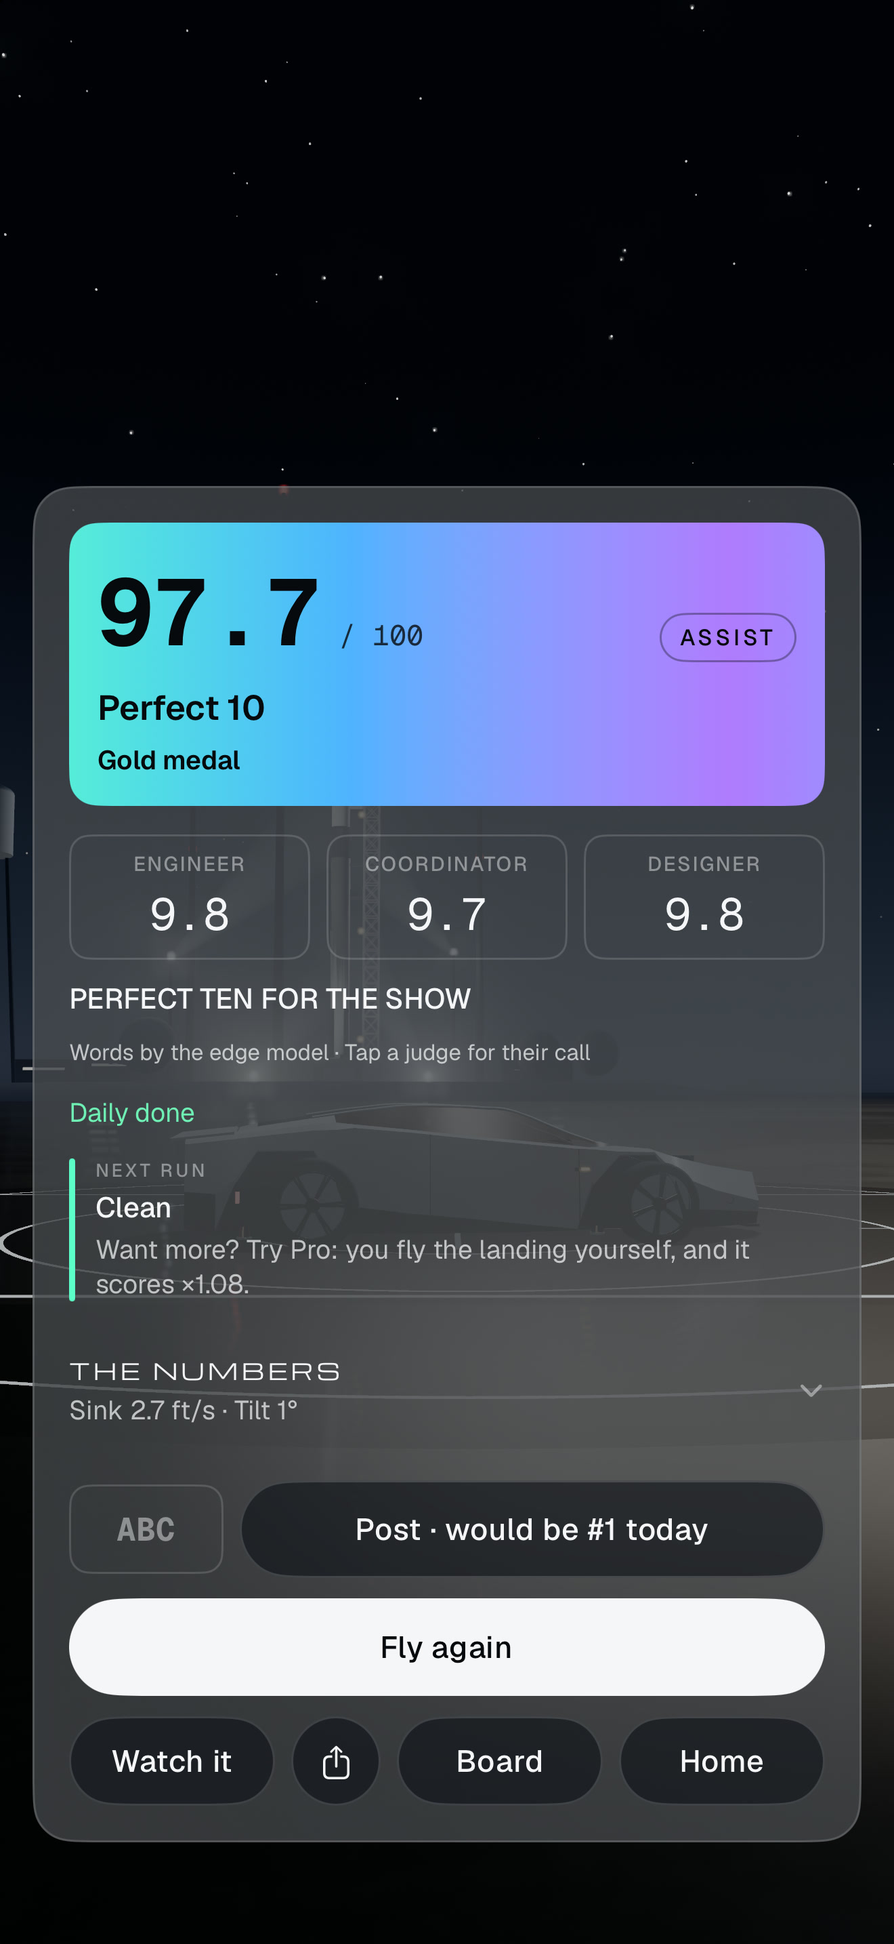
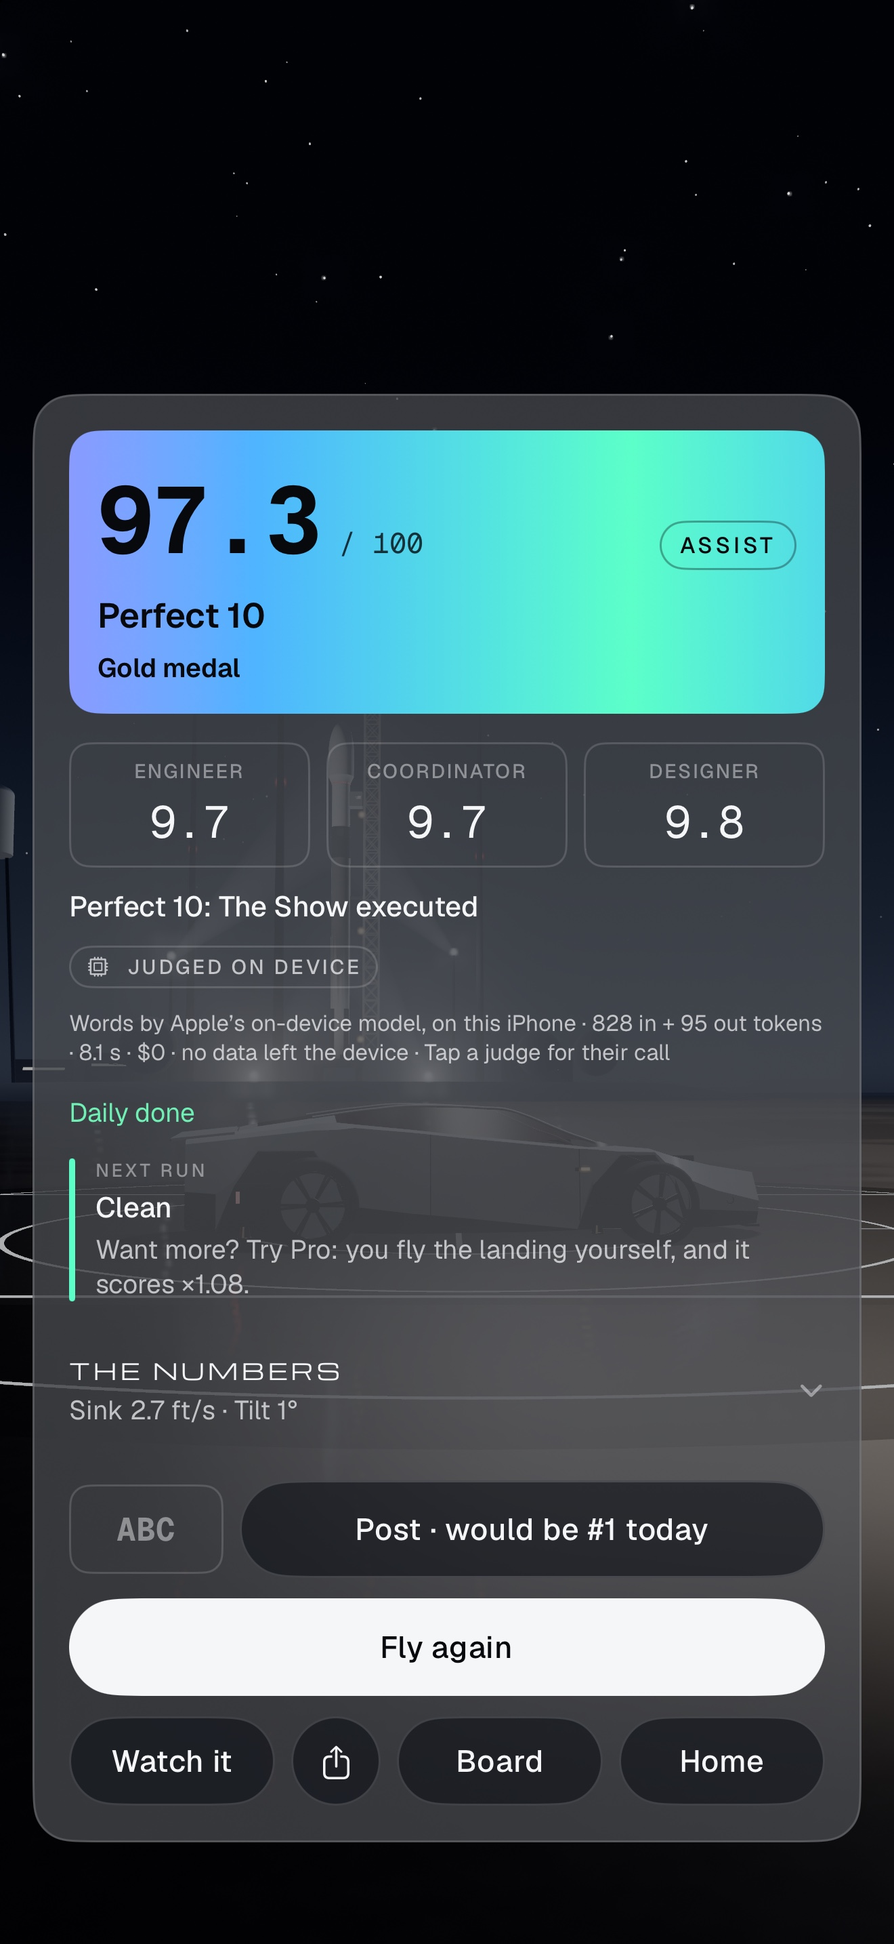
build: iOS 1.1.0 for the App Store: release polish, privacy for on-device judging, iPad shots, review notes
- MARKETING_VERSION 1.1.0.
- Free Drive: the headlamps' cone has a soft edge and a near-field floor (no hard wedge on the verges, no white bank
  at the nose); the world-stats strip (-fd-stats) is Debug-only.
- Advanced in the air: on an upright phone the cue sits under the gas gauge, not over the car; on the open Duo the
  centred HUD moves off the crease (pause left of it, readouts and gas right of it).
- Privacy page and store/privacy-policy.md, word for word: on-device judging sends nothing; otherwise the run goes to
  our server as before. app-privacy.md re-checked for 1.1.0 (label unchanged).
- asc.mjs: the 13" iPad set (APP_IPAD_PRO_3GEN_129, required now the app is universal), `cancel --yes`, and the
  iPhone-only comment gone.
- Store copy: Free Drive and iPad in the description, promo text for a first release, review notes with the board
  correction owed to App Review and what makes the game distinct (4.3, 4.2.6).
- Lobby: new 6.9" captures from the 1.1.0 build (Judged on device, Free Drive, the hang, the row).

Changed region(s): [[0.0311, 0.1862, 0.9629, 0.5586], [0.6523, 0.5275, 0.7455, 0.5586]]

diff --git a/ios/ColdGas/UI/GameUI.swift b/ios/ColdGas/UI/GameUI.swift
@@ -14,6 +14,14 @@ final class LayoutModel: ObservableObject {
     @Published var scene: CGRect = .zero
     @Published var controls: CGRect = .zero
     @Published var safe: EdgeInsets = EdgeInsets()
+    /// The fold's band (the Duo), in the same coordinates; nil on a screen that doesn't fold.
+    @Published var fold: CGRect?
+    /// A vertical fold (the Duo open) across `rect`, as an x range in that rect's own coordinates: what sits centred over
+    /// it moves off the crease.
+    func crease(in rect: CGRect) -> ClosedRange<CGFloat>? {
+        guard spread != .rows, let f = fold, f.height > f.width, f.minX > rect.minX, f.maxX < rect.maxX else { return nil }
+        return (f.minX - rect.minX)...(f.maxX - rect.minX)
+    }
 }
 
 struct RootUI: View {
@@ -200,13 +208,21 @@ struct RunView: View {
         let d = DeckGeometry.layout(layout.controls.size)
         return d.valves.count == 2 && d.form != .tablet
     }
+    /// Advanced in the air on an upright phone: the valve deck (the whole car) fills the bottom and the camera holds the car
+    /// just above it, so a cue lifted over the deck would sit on the car. It goes under the gas bar instead.
+    private var cueTop: Bool {
+        guard layout.spread != .rows, game.tier == "advanced", game.hud.touchPhase == .air, !game.hud.hardware else { return false }
+        let d = DeckGeometry.layout(layout.controls.size)
+        return d.valves.count == 1 && layout.controls.height > layout.controls.width
+    }
     var body: some View {
         let rows = layout.spread == .rows
         let sceneSafe = CGRect(x: layout.scene.minX + layout.safe.leading, y: layout.scene.minY + layout.safe.top,
                                width: layout.scene.width - layout.safe.leading - (rows ? 0 : layout.safe.trailing),
                                height: layout.scene.height - layout.safe.top - (rows ? 0 : layout.safe.bottom))
         ZStack(alignment: .topLeading) {
-            HUDView(compact: !rows && layout.controls.height < 520, cueLift: rows ? 0 : cueLift, centred: hudCentred)
+            HUDView(compact: !rows && layout.controls.height < 520, cueLift: rows ? 0 : cueLift, centred: hudCentred,
+                    crease: layout.crease(in: sceneSafe), cueTop: cueTop)
                 .frame(width: sceneSafe.width, height: sceneSafe.height).offset(x: sceneSafe.minX, y: sceneSafe.minY)
             ControllerView(panel: rows, layoutKey: "\(layout.spread.rawValue) \(Int(layout.controls.width))x\(Int(layout.controls.height))")
                 .frame(width: layout.controls.width, height: layout.controls.height).offset(x: layout.controls.minX, y: layout.controls.minY)
@@ -225,21 +241,28 @@ struct HUDView: View {
     var compact: Bool
     var cueLift: CGFloat = 0   // above the pads when they're over the scene
     var centred = false        // the pause and the readouts in the top middle (Advanced's split valve deck has the corners)
+    var crease: ClosedRange<CGFloat>? = nil   // a vertical fold across the HUD (x in its frame): nothing centred sits on it
+    var cueTop = false         // the cue under the gas bar, not above the controls
     var body: some View {
         let h = game.hud
         VStack(spacing: 0) {
+            if centred, let c = crease {
+                // The Duo open: the pause just left of the crease, the readouts and the gas just right of it.
+                HStack(alignment: .top, spacing: 0) {
+                    pause.frame(width: max(40, c.lowerBound - 12 - 10), alignment: .trailing)
+                    Spacer().frame(width: c.upperBound - c.lowerBound + 20)
+                    VStack(alignment: .leading, spacing: 8) {
+                        readouts(h)
+                        gasBar(h.gas).frame(width: compact ? 120 : 160)
+                    }
+                    Spacer(minLength: 0)
+                }
+            } else {
             HStack(alignment: .top) {
                 if centred { Spacer() }
-                Button { game.paused = true; UISelectionFeedbackGenerator().selectionChanged() } label: {
-                    Image(systemName: "pause.fill").font(.system(size: 13)).foregroundStyle(Theme.ink2).frame(width: 40, height: 40).glass(20)
-                }.buttonStyle(.plain).accessibilityLabel("Pause")
+                pause
                 if centred { Spacer().frame(width: 10) } else { Spacer() }
-                HStack(spacing: 16) {
-                    readout("SPEED", Fmt.speed(h.speed), Fmt.speedUnit)
-                    readout("ALT", Fmt.length(h.alt), Fmt.lengthUnit)
-                    if h.phase == 2 { readout("SINK", Fmt.rate(h.sink), Fmt.rateUnit, color: [Theme.ink, Theme.amber, Theme.hot][h.sinkBand]) }
-                }
-                .padding(.horizontal, 14).padding(.vertical, 8).glass(12)
+                readouts(h)
                 if centred { Spacer() }
             }
             HStack {
@@ -247,17 +270,38 @@ struct HUDView: View {
                 gasBar(h.gas).frame(width: compact ? 120 : 160)
                 if centred { Spacer() }
             }.padding(.top, 8)
-            Spacer()
-            if !h.cue.isEmpty {
-                Text(h.cue).font(Theme.text(compact ? 13 : 15, .medium)).foregroundStyle(Theme.ink)
-                    .padding(.horizontal, 14).padding(.vertical, 8).glass(18)
-                    .transition(.opacity).id(h.cue)
-                    .accessibilityAddTraits(.updatesFrequently)
-                    .padding(.bottom, 8 + cueLift)
+            }
+            if cueTop {
+                cue(h.cue).padding(.top, 10)
+                Spacer()
+            } else {
+                Spacer()
+                cue(h.cue).padding(.bottom, 8 + cueLift)
             }
         }
         .padding(12)
         .animation(.easeOut(duration: 0.25), value: h.cue)
+    }
+    private var pause: some View {
+        Button { game.paused = true; UISelectionFeedbackGenerator().selectionChanged() } label: {
+            Image(systemName: "pause.fill").font(.system(size: 13)).foregroundStyle(Theme.ink2).frame(width: 40, height: 40).glass(20)
+        }.buttonStyle(.plain).accessibilityLabel("Pause")
+    }
+    private func readouts(_ h: HudState) -> some View {
+        HStack(spacing: 16) {
+            readout("SPEED", Fmt.speed(h.speed), Fmt.speedUnit)
+            readout("ALT", Fmt.length(h.alt), Fmt.lengthUnit)
+            if h.phase == 2 { readout("SINK", Fmt.rate(h.sink), Fmt.rateUnit, color: [Theme.ink, Theme.amber, Theme.hot][h.sinkBand]) }
+        }
+        .padding(.horizontal, 14).padding(.vertical, 8).glass(12)
+    }
+    @ViewBuilder private func cue(_ s: String) -> some View {
+        if !s.isEmpty {
+            Text(s).font(Theme.text(compact ? 13 : 15, .medium)).foregroundStyle(Theme.ink)
+                .padding(.horizontal, 14).padding(.vertical, 8).glass(18)
+                .transition(.opacity).id(s)
+                .accessibilityAddTraits(.updatesFrequently)
+        }
     }
     private func readout(_ label: String, _ v: String, _ unit: String, color: Color = Theme.ink) -> some View {
         VStack(alignment: .trailing, spacing: 2) {

diff --git a/public/privacy/index.html b/public/privacy/index.html
@@ -31,10 +31,13 @@
 
   <h2>What we receive, and why</h2>
   <ul>
-    <li><strong>Your run, when you ask for the judges or post to the board.</strong> The run is the inputs you flew and the flight's numbers (speed, height, rotation, touchdown and so on), with the course and the flight tier. We use it to score the jump and to write the judges' commentary.</li>
+    <li><strong>Your run, when you post to the board, and when our server writes the judges' commentary.</strong> The run is the inputs you flew and the flight's numbers (speed, height, rotation, touchdown and so on), with the course and the flight tier. We use it to score the jump and to write the judges' commentary. On an iPhone or iPad where the judges write on the device (below), nothing is sent for the commentary.</li>
     <li><strong>Three initials, when you post to the board.</strong> Three letters, A to Z. They are shown publicly next to the score, with the day it was flown. The board keeps them.</li>
     <li><strong>A health report, from the web game.</strong> Counts of errors (with a short message that has anything that looks like a key or a token removed), how smoothly frames were drawn, which features were used (for example "a run was flown", "the board was opened"), the build, and a rough device class such as "phone, high-end". It carries no identifier, so it can't be tied to you or to your device. We keep daily totals for 30 days and error examples for 14.</li>
   </ul>
+
+  <h2>Judges on your iPhone or iPad</h2>
+  <p>Where Apple Intelligence is available and turned on (iOS 26 or later), the app's judges write their commentary on the device itself, with Apple's on-device model. The model sees only the run's numbers, and nothing is sent to us or to anyone else for it. Where Apple Intelligence isn't available, where you turn this off in Settings, or if the on-device model can't answer, the run's numbers go to our server for the commentary, as described above. The score itself never comes from a model.</p>
 
   <h2>What we don't receive</h2>
   <p>Your name, email, contacts, location, photos, an advertising identifier, or any id for you or your device. Your IP address is used only to stop abuse: it is turned into a hash that changes every day, counted for rate limits, and never stored as an address.</p>
@@ -57,7 +60,7 @@
   <h2>Changes</h2>
   <p>If what we receive ever changes, this page changes first.</p>
 
-  <p class="small">Last updated 5 November 2026.</p>
+  <p class="small">Last updated 12 November 2026.</p>
 </main>
 </body>
 </html>

diff --git a/ios/ColdGas/App/RootViewController.swift b/ios/ColdGas/App/RootViewController.swift
@@ -100,6 +100,7 @@ final class RootViewController: UIViewController {
             layoutModel.spread = l.spread
             layoutModel.scene = l.scene.cg
             layoutModel.controls = l.controls.cg
+            layoutModel.fold = l.fold?.cg
             layoutModel.safe = EdgeInsets(top: safe.top, leading: safe.left, bottom: safe.bottom, trailing: safe.right)
             // The flight deck's shape (0210): set before the camera's framing reads it.
             DeckGeometry.spread = l.spread

diff --git a/ios/ColdGas/World/DriveView.swift b/ios/ColdGas/World/DriveView.swift
@@ -7,7 +7,12 @@ import ColdGasClient
 struct DriveView: View {
     @ObservedObject var game = Game.shared
     @ObservedObject var layout: LayoutModel
+    /// The world's numbers on screen (`-fd-stats`): a Debug tool, never in a Release build.
+    #if DEBUG
     private let stats = Launch.args.contains("-fd-stats")
+    #else
+    private let stats = false
+    #endif
     var body: some View {
         let h = game.driveHud
         let rows = layout.spread == .rows

diff --git a/ios/store/privacy-policy.md b/ios/store/privacy-policy.md
@@ -1,46 +1,69 @@
 # Cold Gas: privacy
 
-Draft text for https://mutaafaziz.com/coldgas/privacy (not yet published; see store/app-privacy.md). It covers the
-iPhone app and the web game, which send the same things to the same server.
+The source text of https://mutaafaziz.com/coldgas/privacy (public/privacy/index.html; live since #255). It covers the
+iPhone and iPad app and the web game. Keep the two word for word: change both in the same PR.
 
 ---
 
+# Privacy
+
 **Cold Gas has no accounts. The iPhone app has no ads and no tracking:** it talks to one server, ours, at
 mutaafaziz.com/coldgas, and nothing from it goes to an advertising network, an analytics company or a data broker. The
-web game is the same, except for the ads and page analytics described below.
+web game is the same, except for the ads described below.
 
-**Ads and page analytics on the web game.** The web game shows ads from Google, through our own ad loader, on its menus
-and results, never during a run. A rewarded ad plays only when you ask for one. Those ads can use the ad network's own
-cookies and identifiers, under Google's privacy policy. The site's pages are also served through Cloudflare, whose Web
-Analytics counts page views. None of this is in the iPhone app.
+## What we receive, and why
 
-**What we receive, and why**
-
-- **Your run, when you ask for the judges or post to the board.** The run is the inputs you flew and the flight's
-  numbers (speed, height, rotation, touchdown and so on), with the course and the flight tier. We use it to score the
-  jump and to write the judges' commentary.
+- **Your run, when you post to the board, and when our server writes the judges' commentary.** The run is the inputs
+  you flew and the flight's numbers (speed, height, rotation, touchdown and so on), with the course and the flight
+  tier. We use it to score the jump and to write the judges' commentary. On an iPhone or iPad where the judges write on
+  the device (below), nothing is sent for the commentary.
 - **Three initials, when you post to the board.** Three letters, A to Z. They are shown publicly next to the score,
   with the day it was flown. The board keeps them.
-- **A health report, from the web game.** Counts of errors (with a short message that has anything that looks like a key or a token
-  removed), how smoothly frames were drawn, which features were used (for example "a run was flown", "the board was
-  opened"), the app's build, and a rough device class such as "phone, high-end". It carries no identifier, so it
-  can't be tied to you or to your device. We keep daily totals for 30 days and error examples for 14.
+- **A health report, from the web game.** Counts of errors (with a short message that has anything that looks like a
+  key or a token removed), how smoothly frames were drawn, which features were used (for example "a run was flown",
+  "the board was opened"), the build, and a rough device class such as "phone, high-end". It carries no identifier, so
+  it can't be tied to you or to your device. We keep daily totals for 30 days and error examples for 14.
 
-**What we don't receive.** Your name, email, contacts, location, photos, an advertising identifier, or any id for
-you or your device. Your IP address is used only to stop abuse: it is turned into a hash that changes every day,
-counted for rate limits, and never stored as an address.
+## Judges on your iPhone or iPad
 
-**Your own AI key (optional).** If you enter an API key for another AI provider, it stays on your device (in the iOS
-Keychain, or in the browser on the web). It is sent with your own judging requests only; our server passes it to that
-provider for that one call and never stores or logs it. That provider's own privacy policy then applies to the
-request.
+Where Apple Intelligence is available and turned on (iOS 26 or later), the app's judges write their commentary on the
+device itself, with Apple's on-device model. The model sees only the run's numbers, and nothing is sent to us or to
+anyone else for it. Where Apple Intelligence isn't available, where you turn this off in Settings, or if the on-device
+model can't answer, the run's numbers go to our server for the commentary, as described above. The score itself never
+comes from a model.
 
-**On your device.** Settings, medals, the daily streak and your initials are saved on your device only.
+## What we don't receive
 
-**Children.** Cold Gas is not directed at children and collects no personal information from anyone.
+Your name, email, contacts, location, photos, an advertising identifier, or any id for you or your device. Your IP
+address is used only to stop abuse: it is turned into a hash that changes every day, counted for rate limits, and
+never stored as an address.
 
-**Deleting.** There is no account to delete. To remove a board entry, write to the address on mutaafaziz.com.
+## Ads on the web game
 
-**Changes.** If what we receive ever changes, this page changes first.
+The web game shows ads from Google, through our own ad loader, on its menus and results, never during a run. A
+rewarded ad plays only when you ask for one. Those ads can use the ad network's own cookies and identifiers, under
+Google's privacy policy. None of this is in the iPhone app.
 
-Last updated: (the publish date)
+## Your own AI key (optional, on the web)
+
+If you enter an API key for another AI provider, it stays on your device. It is sent with your own judging requests
+only; our server passes it to that provider for that one call and never stores or logs it. That provider's own privacy
+policy then applies to the request.
+
+## On your device
+
+Settings, medals, the daily streak and your initials are saved on your device only.
+
+## Children
+
+Cold Gas is not directed at children and collects no personal information from anyone.
+
+## Deleting
+
+There is no account to delete. To remove a board entry, write to the address on mutaafaziz.com.
+
+## Changes
+
+If what we receive ever changes, this page changes first.
+
+Last updated 12 November 2026.

diff --git a/docs/CHANGELOG.md b/docs/CHANGELOG.md
@@ -1,5 +1,6 @@
 # Changelog
 
+2026-11-12 · iOS 1.1.0 · Nothing changes in the web game. The privacy page now says that on an iPhone or iPad with Apple Intelligence the judges write on the device and nothing is sent for them. The iPhone app becomes 1.1.0 for the App Store: Free Drive's headlamps fall off softly instead of painting a hard wedge on the verges and no longer blow a bank at the nose white; Free Drive's world numbers are a Debug-only tool; on an upright phone in Advanced the cue sits under the gas gauge instead of over the car; on the open Duo the HUD that Advanced centres moves off the crease. The App Store listing gets a 13-inch iPad set, Free Drive in the copy, and review notes that correct what we told Apple about the board.
 2026-11-12 · #0219 · Nothing changes on the web. In the iPhone app (from 1.1.0), on an iPhone or iPad with Apple Intelligence the judges' words are written on the device by Apple's on-device model: no network call, no cost, and nothing is sent for them. The words land part by part as before. Under the judges a small "Judged on device" mark and the receipt say so, with the tokens it used, the time, $0 and that no data left the device. Without Apple Intelligence, or if it can't answer within 20 s, the free edge model writes them as before, then the game's own lines (labelled as such). Settings → Judges shows which model judges and can send it to the edge model instead. The scores never change: the model only writes the words.
 2026-11-12 · #0210 · (#333) Nothing changes on the web. The iPhone app's Pro and Advanced controls are rebuilt for the shape of the screen. On a phone the stick and the buttons sit in the corners. Held sideways and on the open Duo they climb the sides. On the Duo in tabletop the lower half is a console. The app now runs on iPad, with the controls at the side grips. The buttons show only what the moment needs, as on the web: GO and BRAKE on the run-up, RELEASE on the ledge, LIFT and BOOST in the air. A faint ring breathes round the one the coach names, and each control has its own feel in the hand. Advanced's valve pad draws the car to scale, with a line to where each nozzle really sits and each open valve shown as its jet. Off an upright phone the pad splits down the car's spine, one half under each thumb. Scores don't change.
 2026-11-12 · #0211 · (#330) Nothing changes in the game. The forge: real Blender assets built headless from a seed (`npm run forge`) or from a brief through Claude (`npm run forge:brief`, tropes and eras only), each gated against the physics' own box, its budget, closed solids and any lettering or emblem, with a turntable for review.

diff --git a/ios/store/app-privacy.md b/ios/store/app-privacy.md
@@ -4,8 +4,9 @@ App Privacy (the "nutrition label") has **no API**: every documented path 404s (
 Connect → the app → App Privacy, then **Publish**. `node scripts/asc.mjs store-check` prints a reminder every time
 because it can't see it.
 
-These answers are for the 1.0 build: the board and the judges ship; **the health beacon (`/obs`) does not**, so nothing
-in Diagnostics or Usage Data is collected. When a build adds the beacon, add those rows to the label and the manifest together.
+These answers hold for 1.1.0 (checked 2026-11-12, re-read for on-device judging and Free Drive, which sends nothing):
+the board and the judges ship; **the health beacon (`/obs`) does not**, so nothing in Diagnostics or Usage Data is
+collected. When a build adds the beacon, add those rows to the label and the manifest together.
 
 ## Does the app collect data? Yes.
 
@@ -46,7 +47,8 @@ beacon or the board, every row above becomes "Linked to the user".
 `ColdGas/Resources/PrivacyInfo.xcprivacy` declares `NSPrivacyCollectedDataTypeGameplayContent` for
 `NSPrivacyCollectedDataTypePurposeAppFunctionality`, not linked, not tracking. `NSPrivacyTracking` stays false.
 
-Required-reason APIs the app calls today (`make rules` checks each one is declared): UserDefaults (CA92.1, the haptics
+FoundationModels (on-device judging) is not a required-reason API and sends nothing, so it adds no row. Required-reason
+APIs the app calls today (`make rules` checks each one is declared): UserDefaults (CA92.1, the haptics
 level and later the saves), `CACurrentMediaTime` (35F9.1, frame timing). C617.1 (file timestamps, inside the app's
 container) is declared for the pipeline cache in Caches; nothing reads a timestamp yet, and declaring it is harmless.
 

diff --git a/docs/NATIVE.md b/docs/NATIVE.md
@@ -322,8 +322,8 @@ too.
     `syncTouchPhase` rule, `Deck.buttons`). A ghost ring breathes round what the cue names.
   - The valve deck is the car whole on an upright phone. Everywhere else it's split down the spine, the car's left
     valves under the left thumb, and the HUD steps into the top middle.
-- **iPad** (0210): `TARGETED_DEVICE_FAMILY` 1,2, full screen, every orientation. It's a `tablet` deck. The next App
-  Store version needs the 13" iPad screenshot set.
+- **iPad** (0210): `TARGETED_DEVICE_FAMILY` 1,2, full screen, every orientation. It's a `tablet` deck. From 1.1.0 the App
+  Store listing carries the 13" iPad set (`ipad-13`, APP_IPAD_PRO_3GEN_129; `asc.mjs store-shots` requires it).
 - **A fold mid-run doesn't pause the run.** The sim doesn't know about views. A fold is a resize that passes through
   sizes no pose has (LESSONS 0075):
   - Re-fit the camera on every layout pass.
